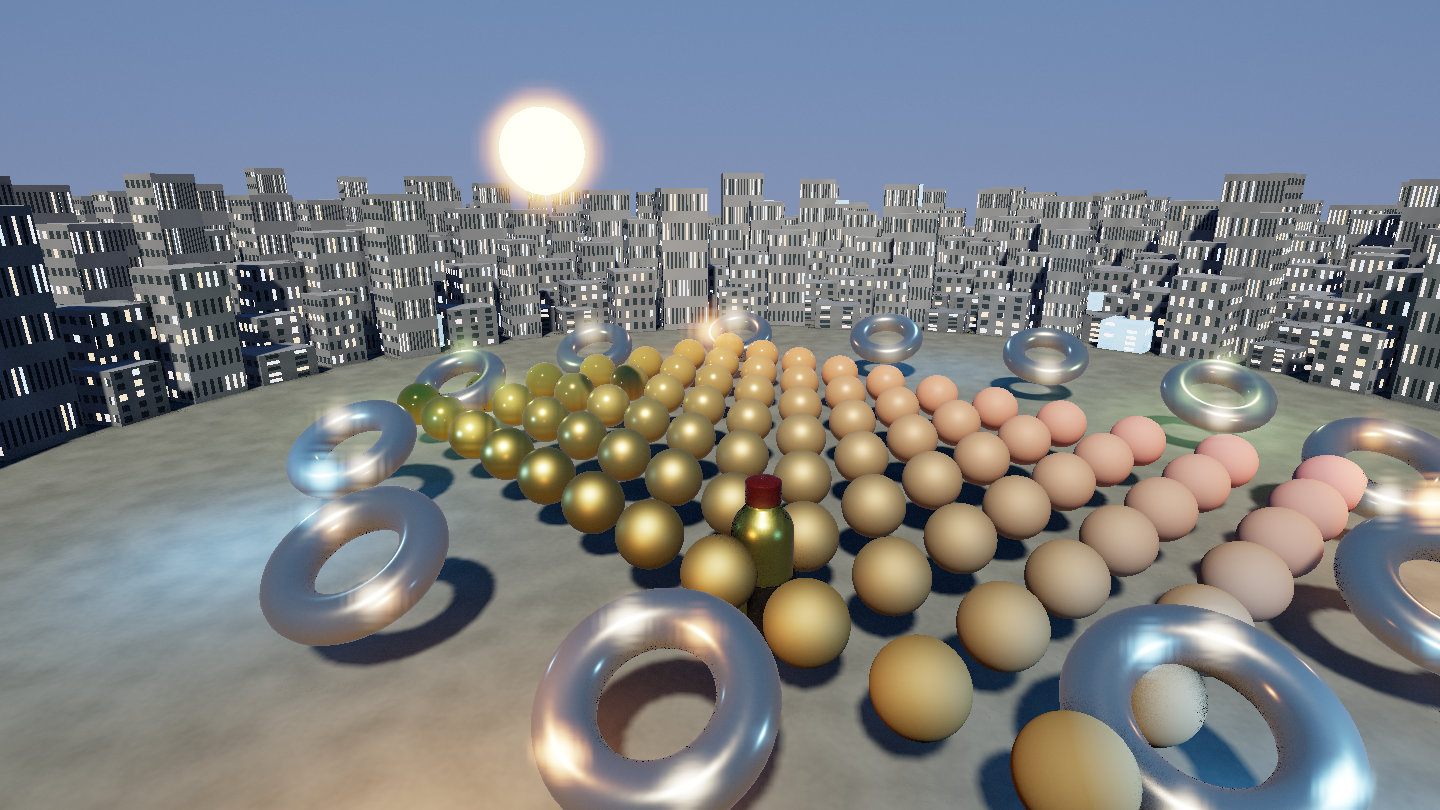
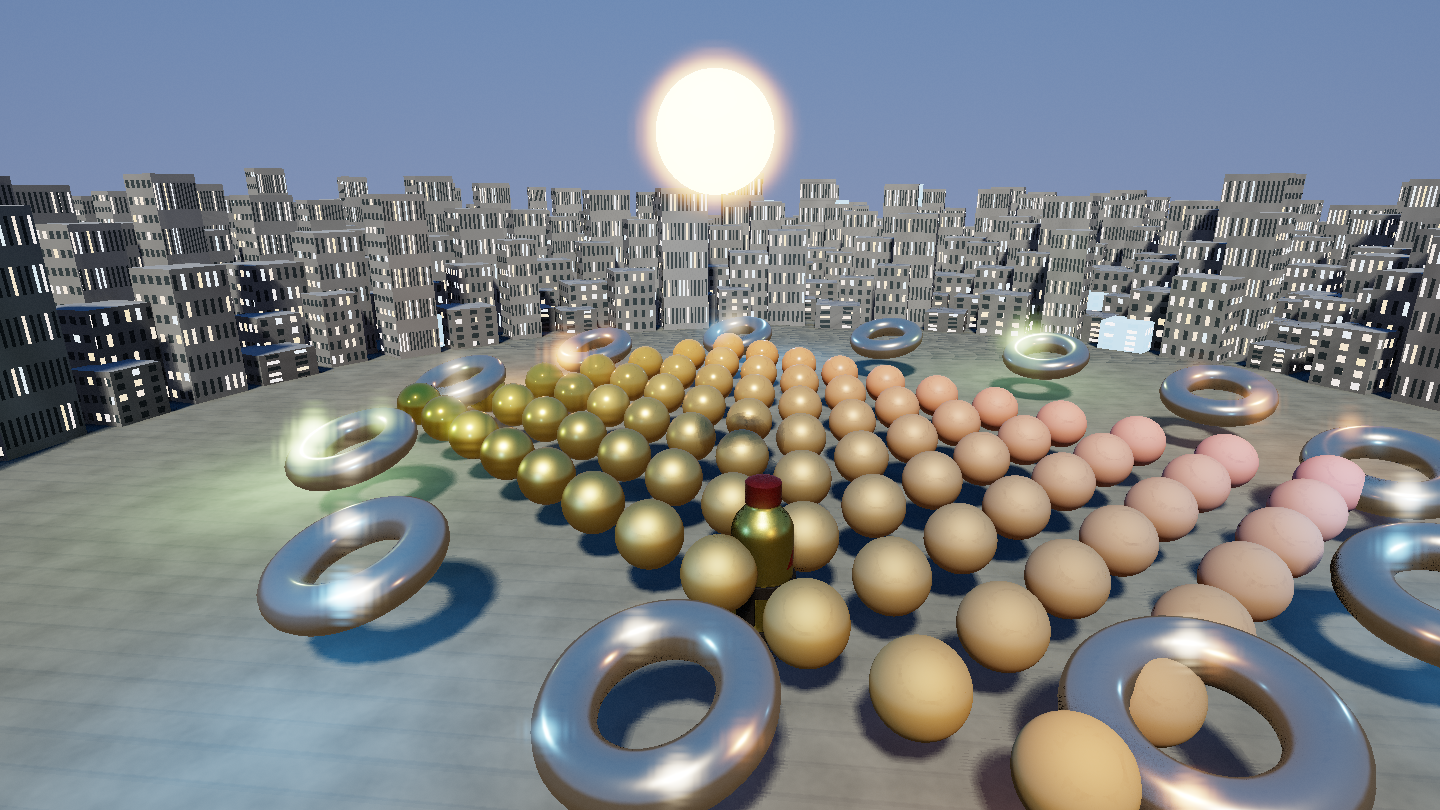
feat: realistic soft shadows and ambient lighting

diff --git a/src/renderer/mod.rs b/src/renderer/mod.rs
@@ -17,9 +17,12 @@ use uniforms::{FrameUniform, InstanceUniform, PostUniform};
 const HDR_FORMAT: wgpu::TextureFormat = wgpu::TextureFormat::Rgba16Float;
 const NORMAL_FORMAT: wgpu::TextureFormat = wgpu::TextureFormat::Rgba8Unorm;
 const VIEW_DEPTH_FORMAT: wgpu::TextureFormat = wgpu::TextureFormat::Rgba16Float;
+const AMBIENT_FORMAT: wgpu::TextureFormat = wgpu::TextureFormat::Rgba16Float;
 const AO_FORMAT: wgpu::TextureFormat = wgpu::TextureFormat::R8Unorm;
 const DEPTH_FORMAT: wgpu::TextureFormat = wgpu::TextureFormat::Depth32Float;
 const SHADOW_FORMAT: wgpu::TextureFormat = wgpu::TextureFormat::Depth32Float;
+// PCSS needs raw depths, and GLSL cannot textureLoad depth textures; keep an R16Float copy.
+const SHADOW_COLOR_FORMAT: wgpu::TextureFormat = wgpu::TextureFormat::R16Float;
 const SHADOW_SIZE: u32 = 2048;
 const MAX_INSTANCES: usize = 4096;
 const GPU_TIMER_SLOTS: usize = 4;
@@ -65,8 +68,9 @@ pub struct Renderer {
     textures: RenderTextures,
     shadow_texture: wgpu::Texture,
     shadow_view: wgpu::TextureView,
+    shadow_color_texture: wgpu::Texture,
+    shadow_color_view: wgpu::TextureView,
     filter_sampler: wgpu::Sampler,
-    shadow_sampler: wgpu::Sampler,
 }
 
 pub struct GpuMesh {
@@ -95,6 +99,8 @@ struct RenderTextures {
     depth_view: wgpu::TextureView,
     view_depth: wgpu::Texture,
     view_depth_view: wgpu::TextureView,
+    ambient: wgpu::Texture,
+    ambient_view: wgpu::TextureView,
     ao: wgpu::Texture,
     ao_view: wgpu::TextureView,
     bloom_a: wgpu::Texture,
@@ -331,9 +337,8 @@ impl BindGroups {
         post_horizontal_buffer: &wgpu::Buffer,
         post_vertical_buffer: &wgpu::Buffer,
         textures: &RenderTextures,
-        shadow_view: &wgpu::TextureView,
+        shadow_color_view: &wgpu::TextureView,
         filter_sampler: &wgpu::Sampler,
-        shadow_sampler: &wgpu::Sampler,
     ) -> Self {
         let frame = device.create_bind_group(&wgpu::BindGroupDescriptor {
             label: Some("frame bindings"),
@@ -345,11 +350,11 @@ impl BindGroups {
                 },
                 wgpu::BindGroupEntry {
                     binding: 1,
-                    resource: wgpu::BindingResource::TextureView(shadow_view),
+                    resource: wgpu::BindingResource::TextureView(shadow_color_view),
                 },
                 wgpu::BindGroupEntry {
                     binding: 2,
-                    resource: wgpu::BindingResource::Sampler(shadow_sampler),
+                    resource: wgpu::BindingResource::Sampler(filter_sampler),
                 },
             ],
         });
@@ -429,6 +434,10 @@ impl BindGroups {
                 wgpu::BindGroupEntry {
                     binding: 3,
                     resource: wgpu::BindingResource::Sampler(filter_sampler),
+                },
+                wgpu::BindGroupEntry {
+                    binding: 5,
+                    resource: wgpu::BindingResource::TextureView(&textures.ambient_view),
                 },
                 wgpu::BindGroupEntry {
                     binding: 4,
@@ -583,18 +592,6 @@ impl Renderer {
             mipmap_filter: wgpu::MipmapFilterMode::Linear,
             ..Default::default()
         });
-        let shadow_sampler = device.create_sampler(&wgpu::SamplerDescriptor {
-            label: Some("shadow comparison sampler"),
-            address_mode_u: wgpu::AddressMode::ClampToEdge,
-            address_mode_v: wgpu::AddressMode::ClampToEdge,
-            address_mode_w: wgpu::AddressMode::ClampToEdge,
-            mag_filter: wgpu::FilterMode::Linear,
-            min_filter: wgpu::FilterMode::Linear,
-            mipmap_filter: wgpu::MipmapFilterMode::Linear,
-            compare: Some(wgpu::CompareFunction::LessEqual),
-            ..Default::default()
-        });
-
         let shadow_texture = create_texture(
             &device,
             SHADOW_SIZE,
@@ -604,6 +601,15 @@ impl Renderer {
             "shadow map",
         );
         let shadow_view = shadow_texture.create_view(&Default::default());
+        let shadow_color_texture = create_texture(
+            &device,
+            SHADOW_SIZE,
+            SHADOW_SIZE,
+            SHADOW_COLOR_FORMAT,
+            wgpu::TextureUsages::RENDER_ATTACHMENT | wgpu::TextureUsages::TEXTURE_BINDING,
+            "shadow depth color",
+        );
+        let shadow_color_view = shadow_color_texture.create_view(&Default::default());
 
         let frame_bind_group_layout = create_frame_bind_group_layout(&device);
         let shadow_bind_group_layout = create_shadow_bind_group_layout(&device);
@@ -638,9 +644,8 @@ impl Renderer {
             &post_horizontal_buffer,
             &post_vertical_buffer,
             &textures,
-            &shadow_view,
+            &shadow_color_view,
             &filter_sampler,
-            &shadow_sampler,
         );
 
         let gpu_timer = GpuTimer::new(&device, &queue);
@@ -682,8 +687,9 @@ impl Renderer {
             textures,
             shadow_texture,
             shadow_view,
+            shadow_color_texture,
+            shadow_color_view,
             filter_sampler,
-            shadow_sampler,
         };
         Ok(renderer)
     }
@@ -927,16 +933,23 @@ impl Renderer {
             &self.post_horizontal_buffer,
             &self.post_vertical_buffer,
             &self.textures,
-            &self.shadow_view,
+            &self.shadow_color_view,
             &self.filter_sampler,
-            &self.shadow_sampler,
         );
     }
 
     fn shadow_pass(&self, encoder: &mut wgpu::CommandEncoder, batches: &[Batch]) {
         let mut pass = encoder.begin_render_pass(&wgpu::RenderPassDescriptor {
             label: Some("directional shadow pass"),
-            color_attachments: &[],
+            color_attachments: &[Some(wgpu::RenderPassColorAttachment {
+                view: &self.shadow_color_view,
+                depth_slice: None,
+                resolve_target: None,
+                ops: wgpu::Operations {
+                    load: wgpu::LoadOp::Clear(wgpu::Color::WHITE),
+                    store: wgpu::StoreOp::Store,
+                },
+            })],
             depth_stencil_attachment: Some(wgpu::RenderPassDepthStencilAttachment {
                 view: &self.shadow_view,
                 depth_ops: Some(wgpu::Operations {
@@ -986,6 +999,15 @@ impl Renderer {
                 }),
                 Some(wgpu::RenderPassColorAttachment {
                     view: &self.textures.view_depth_view,
+                    depth_slice: None,
+                    resolve_target: None,
+                    ops: wgpu::Operations {
+                        load: wgpu::LoadOp::Clear(wgpu::Color::BLACK),
+                        store: wgpu::StoreOp::Store,
+                    },
+                }),
+                Some(wgpu::RenderPassColorAttachment {
+                    view: &self.textures.ambient_view,
                     depth_slice: None,
                     resolve_target: None,
                     ops: wgpu::Operations {
@@ -1217,6 +1239,14 @@ impl RenderTextures {
             wgpu::TextureUsages::RENDER_ATTACHMENT | wgpu::TextureUsages::TEXTURE_BINDING,
             "view depth",
         );
+        let ambient = create_texture(
+            device,
+            width,
+            height,
+            AMBIENT_FORMAT,
+            wgpu::TextureUsages::RENDER_ATTACHMENT | wgpu::TextureUsages::TEXTURE_BINDING,
+            "ambient lighting",
+        );
         let ao = create_texture(
             device,
             width,
@@ -1252,6 +1282,8 @@ impl RenderTextures {
             depth,
             view_depth_view: view_depth.create_view(&Default::default()),
             view_depth,
+            ambient_view: ambient.create_view(&Default::default()),
+            ambient,
             ao_view: ao.create_view(&Default::default()),
             ao,
             bloom_a_view: bloom_a.create_view(&Default::default()),
@@ -1483,7 +1515,7 @@ fn create_frame_bind_group_layout(device: &wgpu::Device) -> wgpu::BindGroupLayou
                 binding: 1,
                 visibility: wgpu::ShaderStages::FRAGMENT,
                 ty: wgpu::BindingType::Texture {
-                    sample_type: wgpu::TextureSampleType::Depth,
+                    sample_type: wgpu::TextureSampleType::Float { filterable: true },
                     view_dimension: wgpu::TextureViewDimension::D2,
                     multisampled: false,
                 },
@@ -1492,7 +1524,7 @@ fn create_frame_bind_group_layout(device: &wgpu::Device) -> wgpu::BindGroupLayou
             wgpu::BindGroupLayoutEntry {
                 binding: 2,
                 visibility: wgpu::ShaderStages::FRAGMENT,
-                ty: wgpu::BindingType::Sampler(wgpu::SamplerBindingType::Comparison),
+                ty: wgpu::BindingType::Sampler(wgpu::SamplerBindingType::Filtering),
                 count: None,
             },
         ],
@@ -1588,6 +1620,7 @@ fn create_composite_bind_group_layout(device: &wgpu::Device) -> wgpu::BindGroupL
             texture(0),
             texture(1),
             texture(2),
+            texture(5),
             wgpu::BindGroupLayoutEntry {
                 binding: 3,
                 visibility: wgpu::ShaderStages::FRAGMENT,
@@ -1694,6 +1727,11 @@ fn create_scene_pipeline(
             blend: None,
             write_mask: wgpu::ColorWrites::ALL,
         }),
+        Some(wgpu::ColorTargetState {
+            format: AMBIENT_FORMAT,
+            blend: None,
+            write_mask: wgpu::ColorWrites::ALL,
+        }),
     ];
     device.create_render_pipeline(&wgpu::RenderPipelineDescriptor {
         label: Some("cook-torrance scene pipeline"),
@@ -1771,7 +1809,16 @@ fn create_shadow_pipeline(
             },
         }),
         multisample: Default::default(),
-        fragment: None,
+        fragment: Some(wgpu::FragmentState {
+            module: &shader,
+            entry_point: Some("fs_shadow"),
+            compilation_options: Default::default(),
+            targets: &[Some(wgpu::ColorTargetState {
+                format: SHADOW_COLOR_FORMAT,
+                blend: None,
+                write_mask: wgpu::ColorWrites::ALL,
+            })],
+        }),
         multiview_mask: None,
         cache: None,
     })

diff --git a/src/scene.rs b/src/scene.rs
@@ -206,6 +206,8 @@ pub struct Scene {
     pub sun_direction: Vec3,
     pub sun_color: Vec3,
     pub sun_intensity: f32,
+    /// Tangent of the sun's angular radius, used for contact-hardening shadows.
+    pub sun_angular_size: f32,
     pub time: f32,
 }
 
@@ -358,6 +360,7 @@ impl Scene {
             sun_direction: Vec3::new(-0.42, -0.78, -0.46).normalize(),
             sun_color: Vec3::new(1.0, 0.86, 0.68),
             sun_intensity: 3.2,
+            sun_angular_size: 0.045,
             time: 0.0,
         };
 

diff --git a/src/renderer/uniforms.rs b/src/renderer/uniforms.rs
@@ -68,7 +68,7 @@ impl FrameUniform {
                 width as f32,
                 height as f32,
                 scene.point_lights.len().min(MAX_POINT_LIGHTS) as f32,
-                0.0,
+                scene.sun_angular_size,
             ],
             point_light_positions,
             point_light_colors,

diff --git a/README.md b/README.md
@@ -53,11 +53,11 @@ PHOTON3D_BENCHMARK_FRAMES=120 cargo run --release
   - Schlick Fresnel
   - metallic / roughnessワークフロー
 - HDR linear lighting（`Rgba16Float`）
-- directional lightの2048² shadow map + 3x3 PCF
+- directional lightの2048² shadow map + blocker search付きPCSS風contact-hardening shadow（16-tap Poisson PCF）
 - 8つの動的ポイントライト（逆二乗減衰 + 半径フォールオフ）
-- 視空間法線・視深バッファを使ったスクリーンスペースAO
+- 視空間法線・視深バッファを使った安定化スクリーンスペースAO（ambient lightingのみへ適用）
 - threshold + soft kneeによる高輝度抽出、分離Gaussian bloom
-- 手続き sky gradient / sun disk
+- 手続き sky gradient / sun diskとroughness応答つき環境specular照明
 - Narkowicz近似のACES filmic tone mapping
 - プロシージャル建築コンクリート / 窓 / 地表ミネラル detail
 - glTF 2.0 mesh/node transform loading
@@ -99,7 +99,7 @@ PHOTON3D_BENCHMARK_FRAMES=120 cargo run --release
    <https://artis.inrialpes.fr/Membres/Olivier.Hoel/ssao/nVidiaHSAO/ScreenSpaceAO.pdf>
 
 5. **Reeves, Salesin, Cook, “Rendering Antialiased Shadows with Depth Maps” (1987) / Fernando, “Percentage-Closer Soft Shadows” (2005)**  
-   shadow mapとPCF filteringの根拠。現在は固定3x3 PCFで、PCSSは今後の拡張。  
+   shadow mapとPCF filtering、受光面・遮蔽物距離に応じたpenumbra近似の根拠。現在は単一cascadeのPCSS風近似。\
    <https://developer.download.nvidia.com/shaderlibrary/docs/shadow_PCSS.pdf>
 
 6. **Narkowicz, “ACES Filmic Tone Mapping Curve” (2016)**  
@@ -143,9 +143,9 @@ scene update (parallel)
 - glTF alpha blending/masking、skinning、morph targets、texture transform
 - clustered forward+ light assignment
 - GPU compute frustum/occlusion culling と indirect draw
-- PCSS / cascaded shadow maps
+- cascaded shadow maps / moment shadow maps
 - TAA / temporal reprojection、AO denoise
-- image-based lighting（prefiltered environment map / BRDF LUT）
+- prefiltered environment map / BRDF LUTによる本格的IBL
 - physics, ECS, asset hot reload
 - bindless texture array
 
